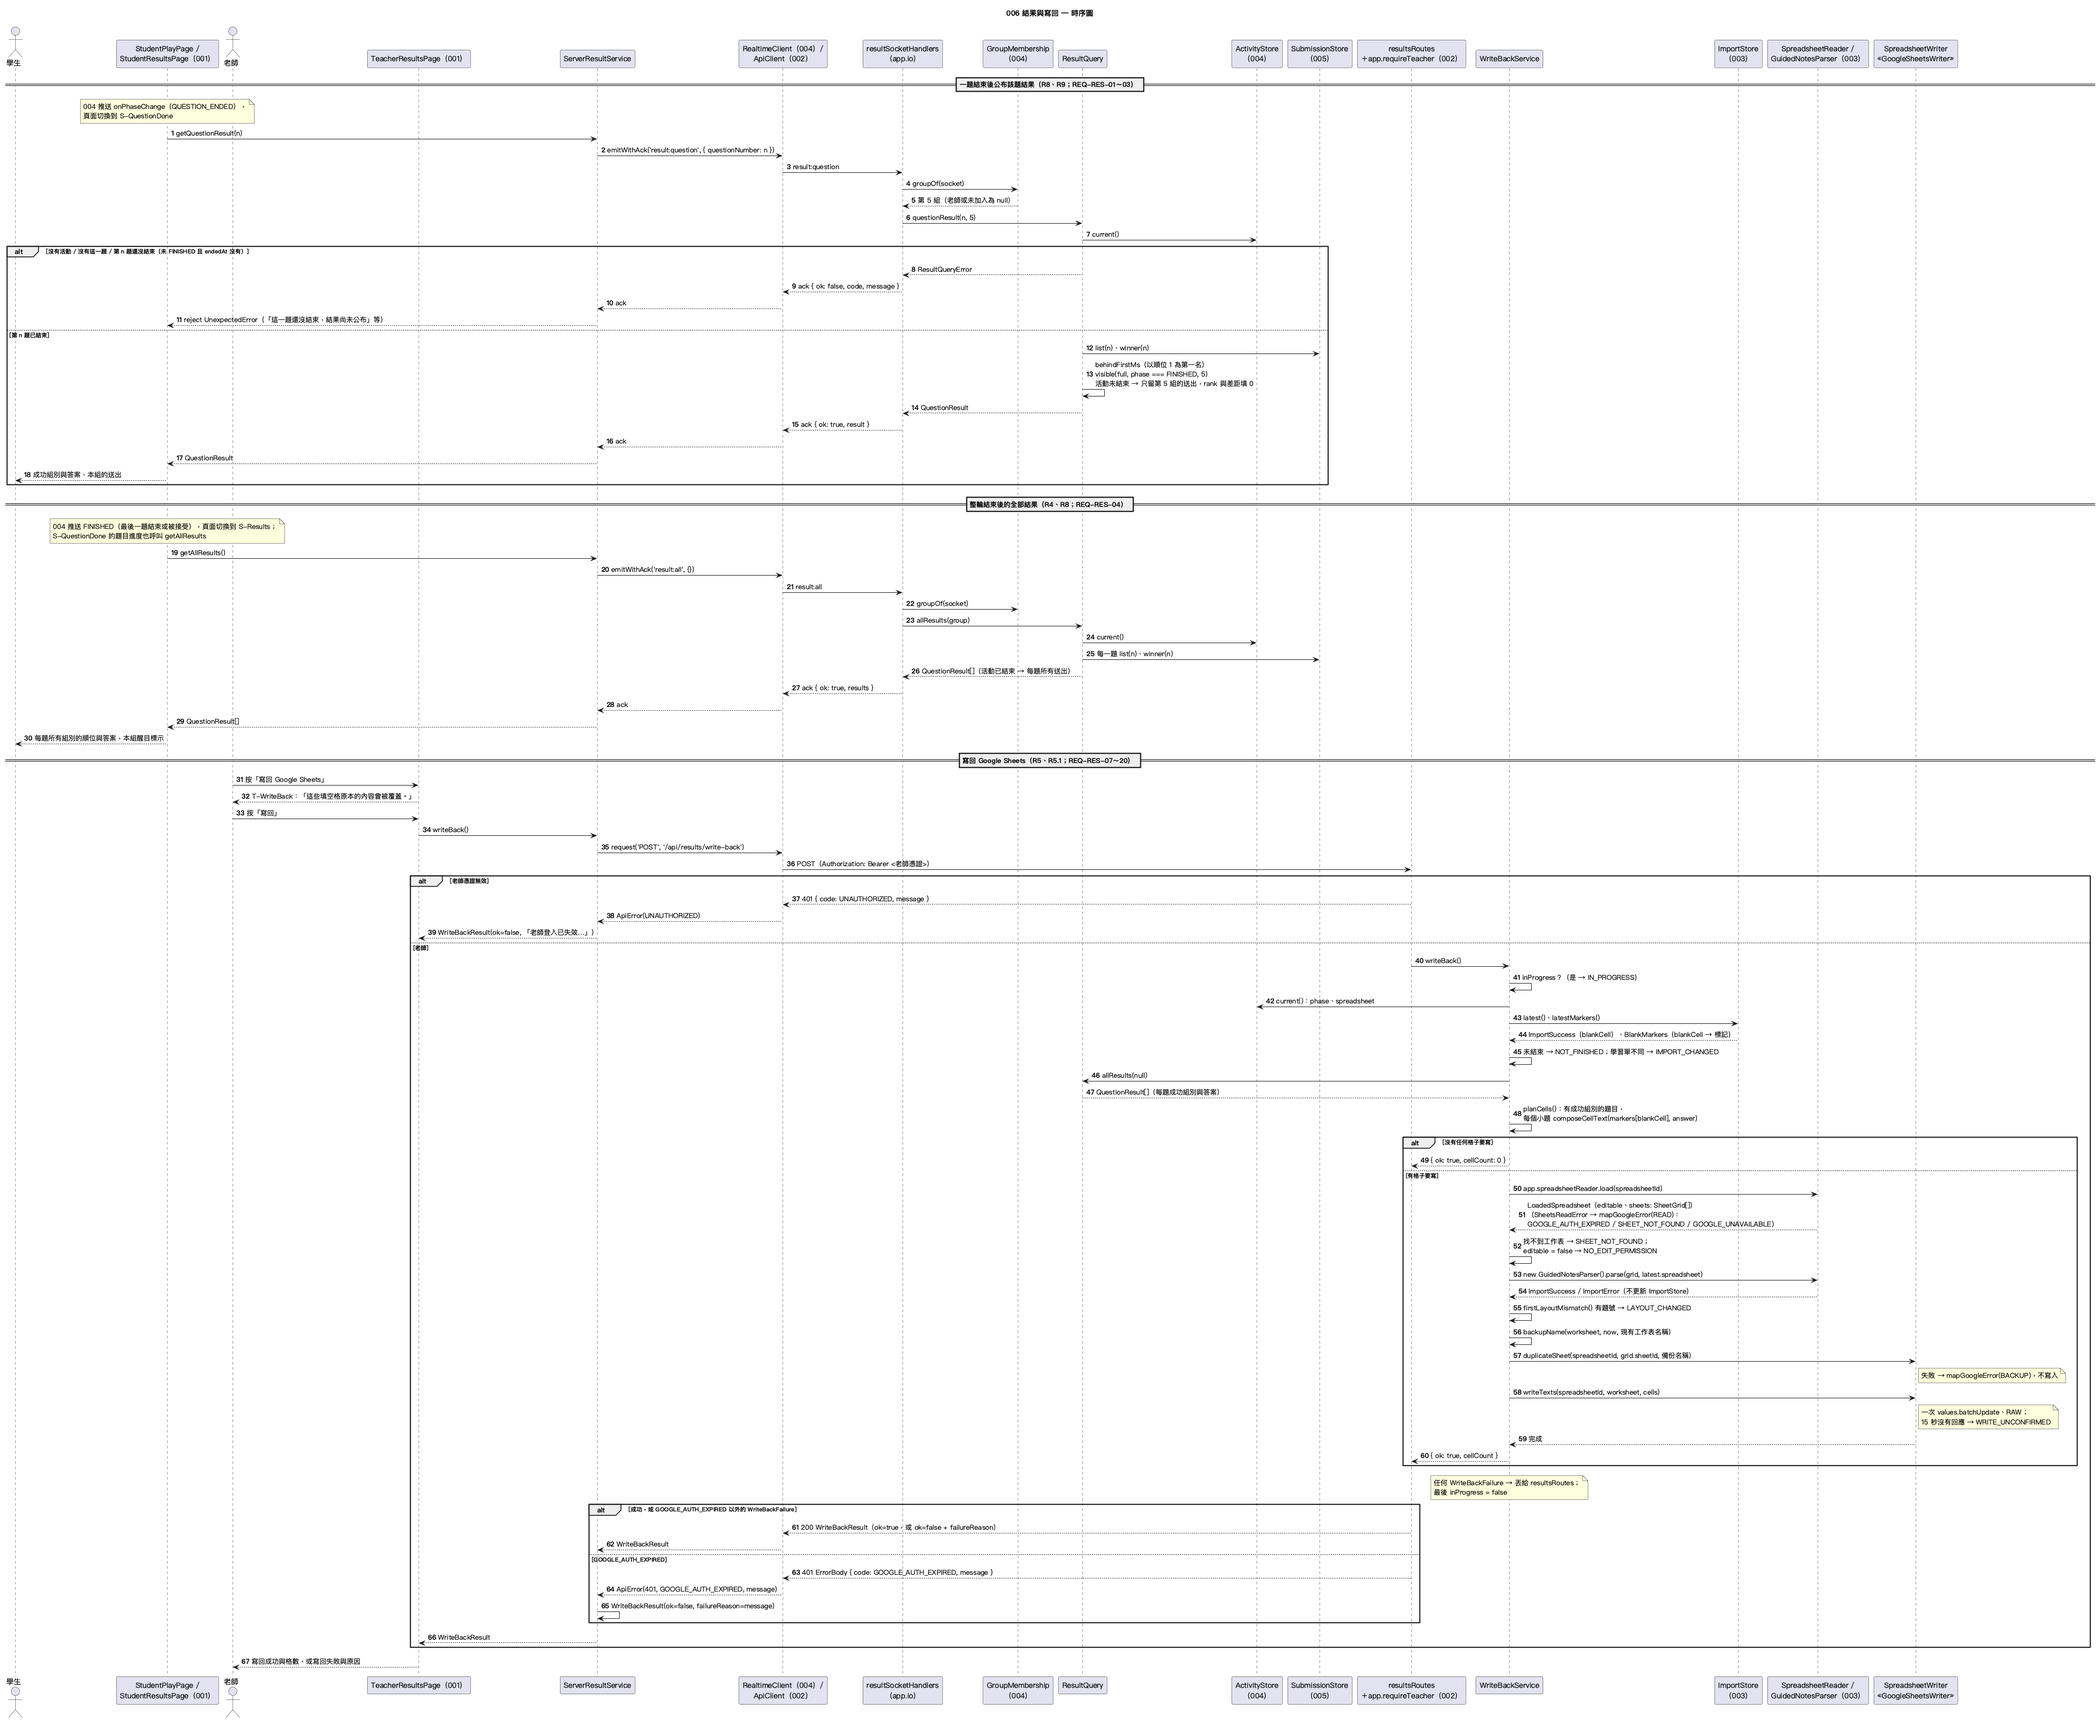
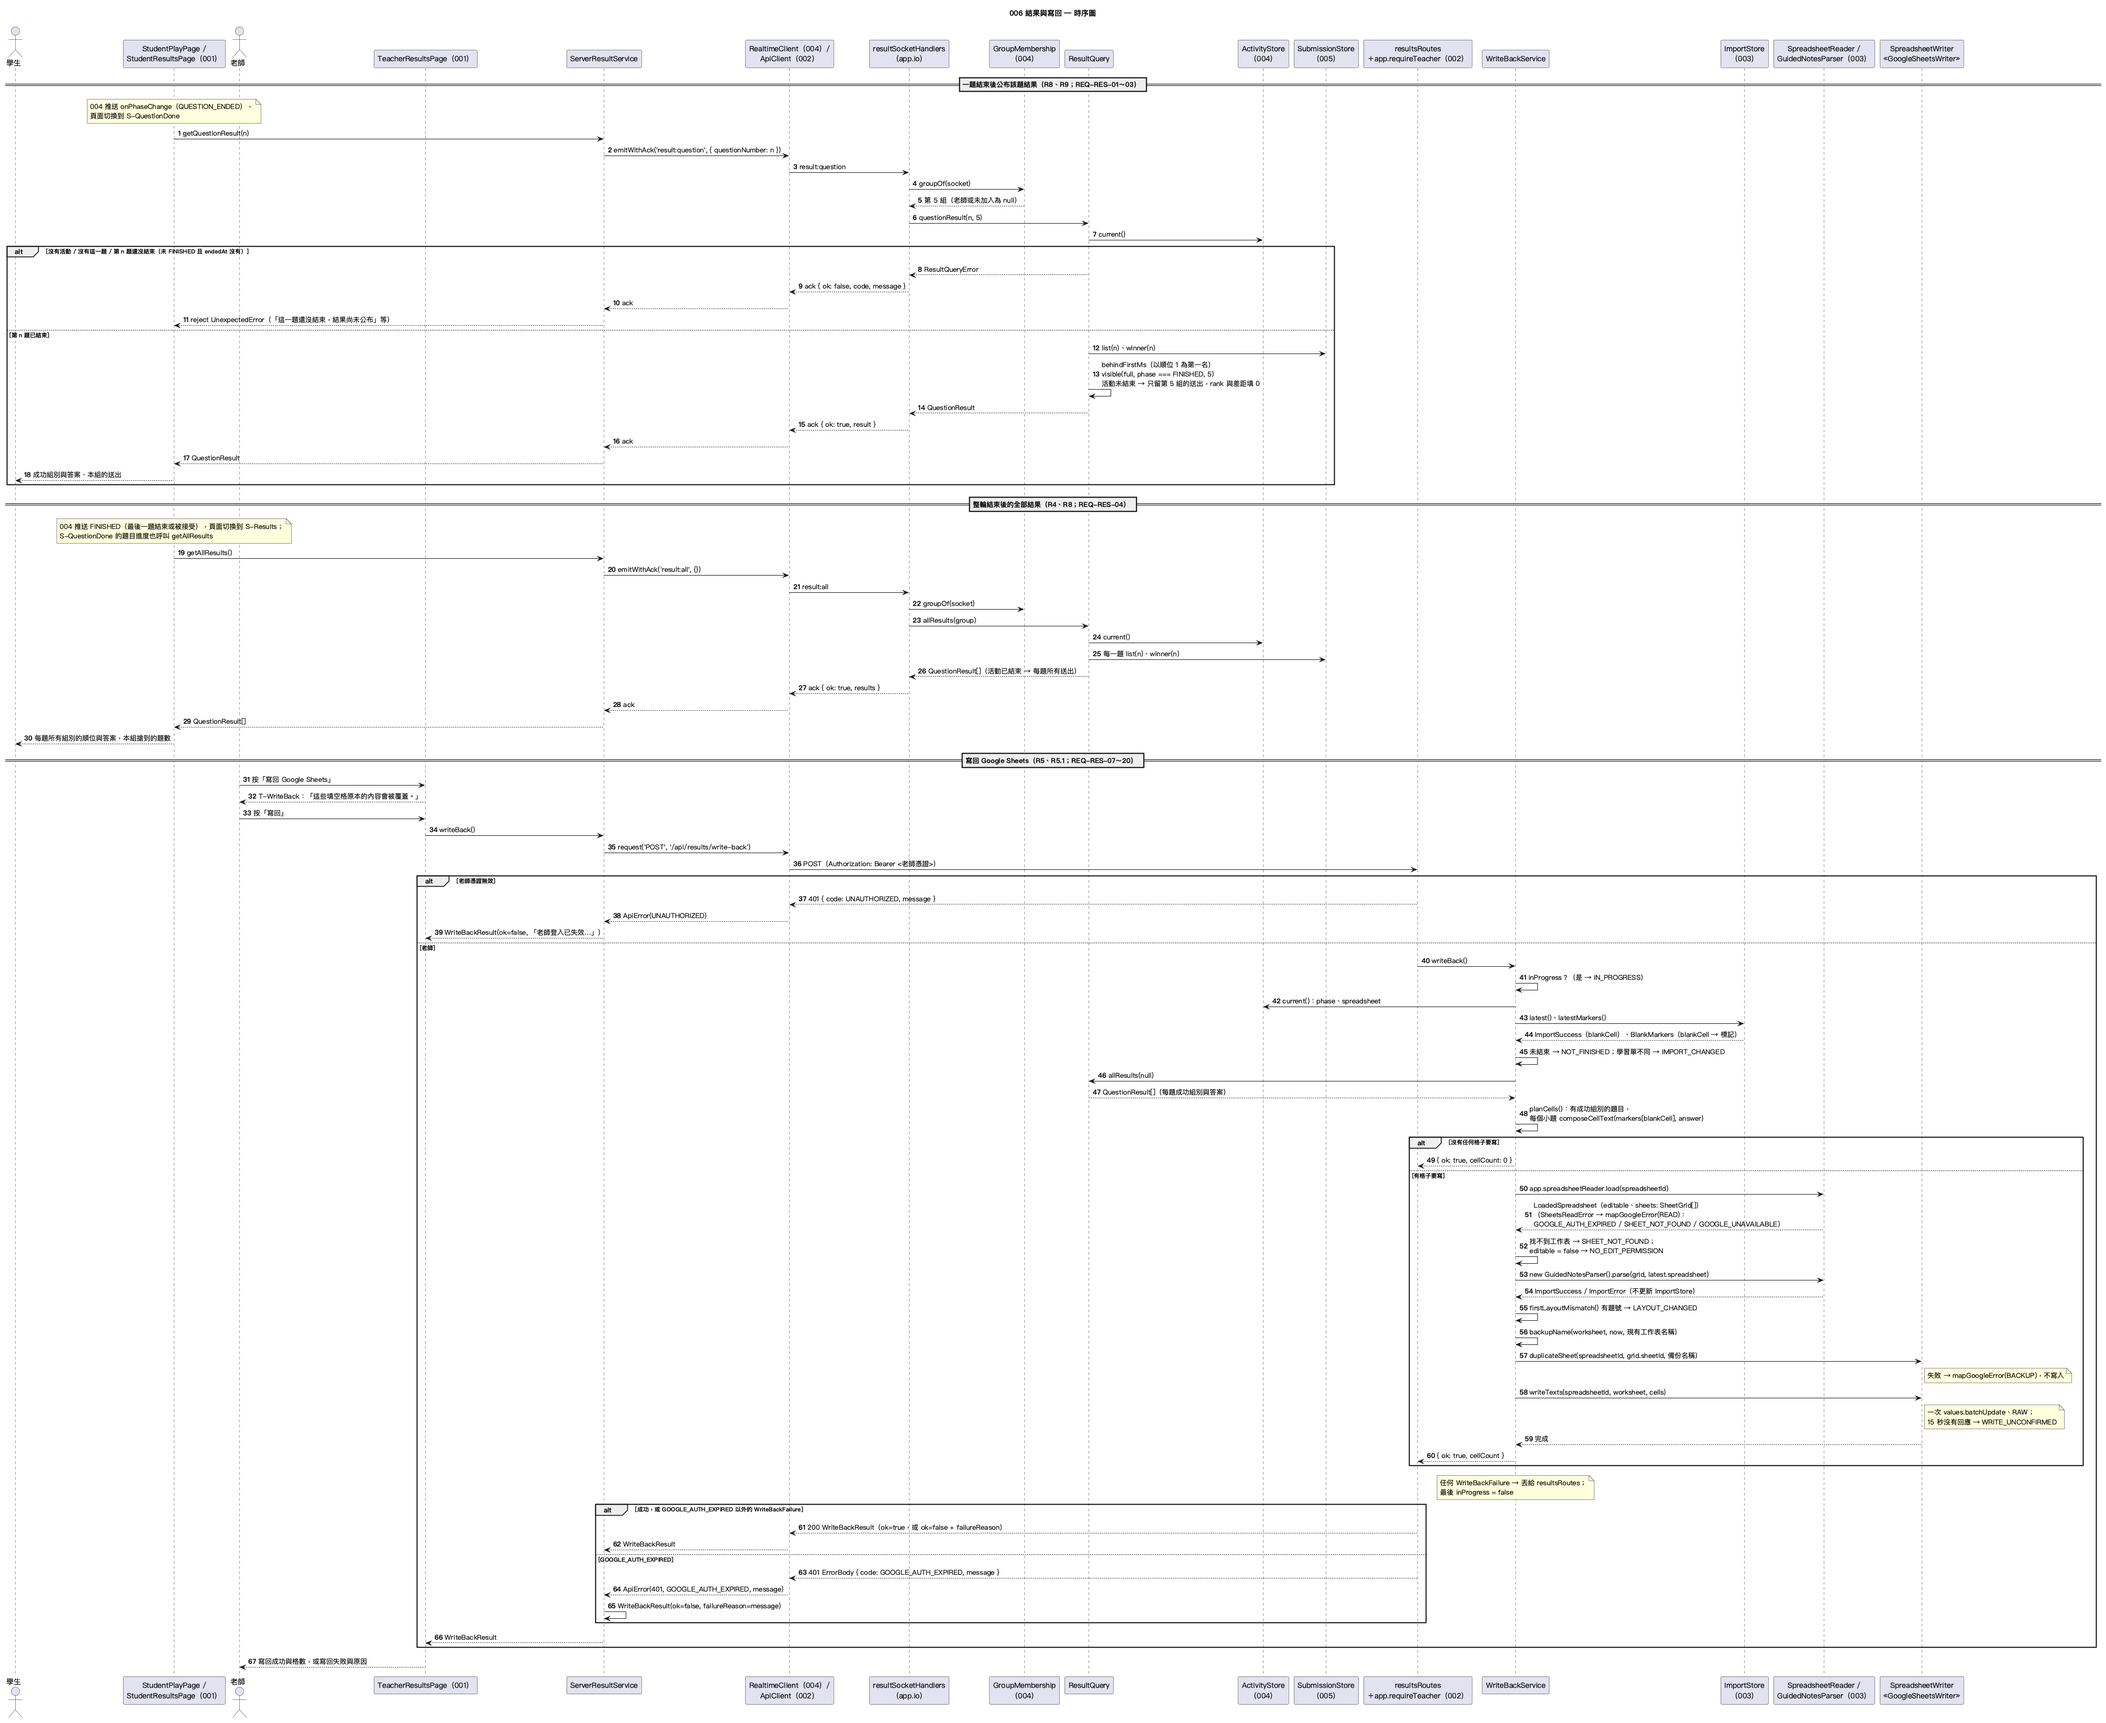
spec(006): 學生結果頁的呈現依 001
001 FR-057、FR-058 的頁面不顯示本組送出的判定，也不另外標示本組，2026-11-28 決定改 006 配合；006 只負責回傳的資料。

Refs: AC-02, AC-07

diff --git a/specs/006-results-export/spec.md b/specs/006-results-export/spec.md
@@ -72,6 +72,10 @@
 
 - Q: 001 的頁面與測試不允許出現「備份」（001「相對於設計稿的調整」、SC-004），確認視窗的說明文字還要提到備份嗎？ → A: 不提（使用者 2026-11-27 決定，依 001 現行規定）。說明文字為「這些填空格原本的內容會被覆蓋。」；伺服器照常建立備份工作表（REQ-RES-13），頁面不顯示任何備份資訊。取代 Session 2026-11-22 中說明文字的決定。
 
+### Session 2026-11-28
+
+- Q: AC-02 要學生本題結果頁顯示本組送出的判定、AC-07 要學生全部結果頁醒目標示本組，但 001 FR-057、FR-058 的頁面沒有這兩項，要改哪一邊？ → A: 改 006 配合 001（使用者 2026-11-28 決定）。006 只負責回傳的資料：本題結果中本組的送出仍帶判定，全部結果仍有每一筆送出的組別，頁面怎麼顯示依 001（本題結果頁顯示本組送出的答案；全部結果頁不另外標示本組）。取代 Session 2026-11-21 公布範圍回答中「學生頁面把本組醒目標示」。
+
 ## User Scenarios & Testing *(mandatory)*
 
 ### User Story 1 - 一題結束後公布該題結果 (Priority: P1)
@@ -85,7 +89,7 @@
 **Acceptance Scenarios**:
 
 1. **AC-01** **Given** 第 2 題剛結束，第 3 組被老師接受, **When** 老師在控制台・本題已結束、學生在本題結果頁, **Then** 都看到第 2 題的搶答成功組別「第 3 組」與各小題答案，以及送出組數。
-2. **AC-02** **Given** 第 2 題剛結束，學生屬於第 5 組，第 5 組有送出但被老師拒絕, **When** 學生檢視本題結果, **Then** 除了成功組別與答案，還看到本組的送出（各小題答案、判定「不接受」）；看不到其他沒有成功的組別的答案；回傳的每筆送出 `rank` 都是 0、`behindFirstMs` 都是 0（順位與差距不公開）。
+2. **AC-02** **Given** 第 2 題剛結束，學生屬於第 5 組，第 5 組有送出但被老師拒絕, **When** 學生檢視本題結果, **Then** 除了成功組別與答案，還看到本組送出的各小題答案；回傳的本組送出帶判定「不接受」（頁面是否顯示判定依 001 FR-057）；看不到其他沒有成功的組別的答案；回傳的每筆送出 `rank` 都是 0、`behindFirstMs` 都是 0（順位與差距不公開）。
 3. **AC-03** **Given** 第 2 題有組別送出，但結束時沒有任何組別被接受, **When** 檢視本題結果, **Then** 沒有成功組別，送出組數大於 0，頁面顯示「沒有組別搶答成功」。
 4. **AC-04** **Given** 第 2 題結束時沒有任何組別送出, **When** 檢視本題結果, **Then** 沒有成功組別，送出組數為 0，頁面顯示「沒有組別送出」。
 5. **AC-05** **Given** 第 3 題仍在搶答中, **When** 任何連線直接向伺服器要求第 3 題的結果, **Then** 伺服器拒絕，回「這一題還沒結束，結果尚未公布」；要求全部結果時，回傳內容不含第 3 題；要求不存在的第 9 題時回「沒有這一題」；沒有活動時回「目前沒有活動」。
@@ -95,7 +99,7 @@
 
 ### User Story 2 - 整輪結束後檢視全部結果 (Priority: P1)
 
-最後一題結束、活動結束後，老師與學生都能看到每一題所有組別的答案、順位與判定；學生頁面把本組醒目標示，老師看到各組搶到的題數。
+最後一題結束、活動結束後，老師與學生都能看到每一題所有組別的答案、順位與判定；學生看到本組搶到的題數，老師看到各組搶到的題數。
 
 **Why this priority**: R4、R8 的收尾；001 FR-058 的公布範圍。
 
@@ -103,7 +107,7 @@
 
 **Acceptance Scenarios**:
 
-1. **AC-07** **Given** 活動已結束, **When** 學生在全部結果頁, **Then** 看到每一題的成功組別與答案，以及該題所有送出的順位、組別、各小題答案與判定；本組的送出醒目標示，並顯示本組搶到的題數。
+1. **AC-07** **Given** 活動已結束, **When** 學生在全部結果頁, **Then** 看到每一題的成功組別與答案，以及該題所有送出的順位、組別、各小題答案與判定，並顯示本組搶到的題數（不另外標示本組，依 001 FR-058）。
 2. **AC-08** **Given** 活動已結束, **When** 老師在結果與寫回頁, **Then** 看到每一題的成功組別與答案、送出組數、每題所有送出的答案、順位與判定、每筆送出比第一名慢的秒數，以及各組搶到的題數。
 3. **AC-09** **Given** 某一題結束時還有待判定的送出, **When** 檢視全部結果, **Then** 這些送出的判定為「未判定」，不算搶答成功。
 4. **AC-10** **Given** 活動進行中（第 1、2 題已結束，第 3 題搶答中）, **When** 第 5 組的學生在本題結果頁要求全部結果（題目進度）, **Then** 只回第 1、2 題，每題只有成功組別與答案、送出組數與第 5 組自己的送出。

diff --git a/specs/006-results-export/tasks.md b/specs/006-results-export/tasks.md
@@ -140,7 +140,7 @@ description: "Task list for 006 結果與寫回"
 ## Phase 7: Polish & Cross-Cutting
 
 - [ ] T031 在 `frontend/src/services/createServiceRegistry.ts` 把 `result` 綁定改為 `ServerResultService`（傳入 004 的 `RealtimeClient` 與 002 的 `ApiClient`），並更新 001 的 `ServiceRegistry` 單元測試：`result` 不再是模擬實作，`MockResultService` 只留給測試
-- [ ] T032 `frontend/tests/e2e/results.spec.ts`（Playwright，沿用 005 的多分頁 E2E 環境，Google 以替身取代）：第 2 題結束時老師分頁與第 5 組分頁顯示成功組別與答案、第 5 組分頁顯示本組被拒絕的送出且沒有其他組的答案，題目進度只含已結束的題目（AC-01、AC-02、AC-10、SC-006）；活動結束後學生全部結果頁顯示每題所有送出並醒目標示本組（AC-07）、老師結果頁顯示每題所有送出與比第一名慢的秒數（AC-08、AC-30）；T-WriteBack 的說明文字為「這些填空格原本的內容會被覆蓋。」且沒有「備份」（AC-11、REQ-RES-19，依 T035）；寫回成功與失敗的顯示（REQ-RES-20）
+- [ ] T032 `frontend/tests/e2e/results.spec.ts`（Playwright，沿用 005 的多分頁 E2E 環境，Google 以替身取代）：第 2 題結束時老師分頁與第 5 組分頁顯示成功組別與答案、第 5 組分頁顯示本組送出的答案、收到的本組送出判定為「不接受」且沒有其他組的答案，題目進度只含已結束的題目（AC-01、AC-02、AC-10、SC-006）；活動結束後學生全部結果頁顯示每題所有送出與本組搶到的題數（AC-07）、老師結果頁顯示每題所有送出與比第一名慢的秒數（AC-08、AC-30）；T-WriteBack 的說明文字為「這些填空格原本的內容會被覆蓋。」且沒有「備份」（AC-11、REQ-RES-19，依 T035）；寫回成功與失敗的顯示（REQ-RES-20）
 - [ ] T033 依 [quickstart.md](quickstart.md) 的 16 個情境做人工驗證，紀錄寫入 `specs/006-results-export/manual-verification.md`（SC-001～SC-004、SC-008、AC-12～AC-17、AC-21～AC-26 的真實 Google 行為）
 - [ ] T034 圖表一致性驗證：比對程式碼與 `diagrams/006-*.puml` 的組件、類別、方法與呼叫順序，結果寫入 `specs/006-results-export/diagram-verification.md`（原則 I）
 - [X] T035 確認 001 `TeacherResultsPage` 的 T-WriteBack 說明文字為「這些填空格原本的內容會被覆蓋。」且沒有「備份」（2026-11-27 決定）；不是時只改這段文字（001 FR-041 規定說明文字依 006 的寫回規則撰寫，不改頁面的欄位、按鈕與切換）（AC-11、REQ-RES-19）

diff --git a/specs/006-results-export/quickstart.md b/specs/006-results-export/quickstart.md
@@ -29,10 +29,10 @@ npx playwright test -c frontend/playwright.config.ts results
 
 | # | 操作 | 預期結果 | 對應 |
 | --- | --- | --- | --- |
-| 1 | 第 1 題結束時看第 2 組學生分頁 | 1 秒內出現成功組別第 1 組與答案、送出組數，以及本組的送出（不接受，不顯示順位）；看不到其他組的答案；題目進度只有第 1 題 | AC-01、AC-02、AC-10、SC-005 |
+| 1 | 第 1 題結束時看第 2 組學生分頁 | 1 秒內出現成功組別第 1 組與答案、送出組數，以及本組送出的答案（不顯示順位）；看不到其他組的答案；題目進度只有第 1 題 | AC-01、AC-02、AC-10、SC-005 |
 | 2 | 第 2 題進行中，在學生分頁的瀏覽器主控台送出 `result:question` 第 2 題 | 回「這一題還沒結束，結果尚未公布」 | AC-05 |
 | 3 | 第 3、4 題結束時看老師與學生分頁 | 第 3 題「沒有組別搶答成功」，第 4 題「沒有組別送出」 | AC-03、AC-04 |
-| 4 | 活動結束後看學生分頁 | 每題所有送出的順位、組別、答案與判定；本組醒目標示 | AC-07 |
+| 4 | 活動結束後看學生分頁 | 每題所有送出的順位、組別、答案與判定，以及本組搶到的題數 | AC-07 |
 | 5 | 活動結束後看老師結果頁 | 每題成功組別、送出組數、每題所有送出的順位與判定、比第一名（最早送出的組別）慢的秒數、各組搶到的題數 | AC-08、AC-30 |
 | 6 | 先在試算表第 2 題的填空格手動打字，再按「寫回 Google Sheets」 | 確認視窗文字為「這些填空格原本的內容會被覆蓋。」，沒有提到備份 | AC-11 |
 | 7 | 按「寫回」，打開試算表（寫回預覽只顯示答案，不含小題標記） | 多一個「原名-備份-YYYYMMDD-HHmm」工作表，內容與寫回前相同；第 1、2 題填空格為成功答案，`=1+1` 顯示為文字；第 3、4 題填空格不變；題組小題保留「（1）」等標記 | AC-12～AC-16、SC-001、SC-008 |
